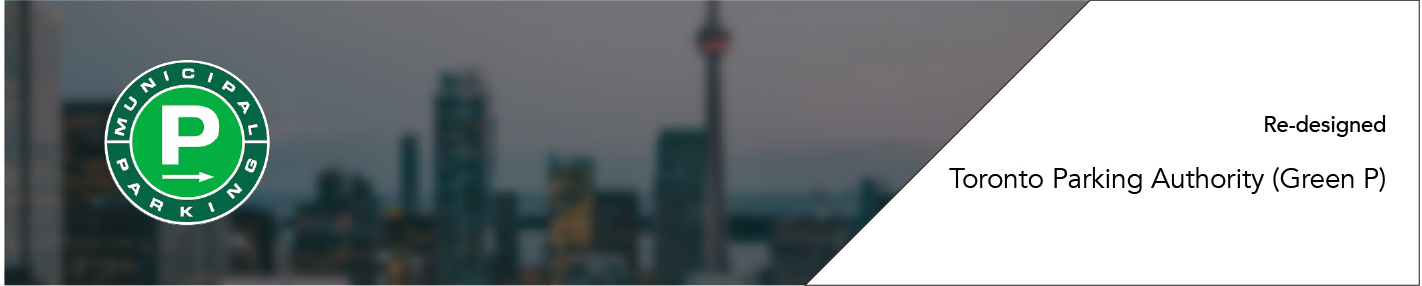
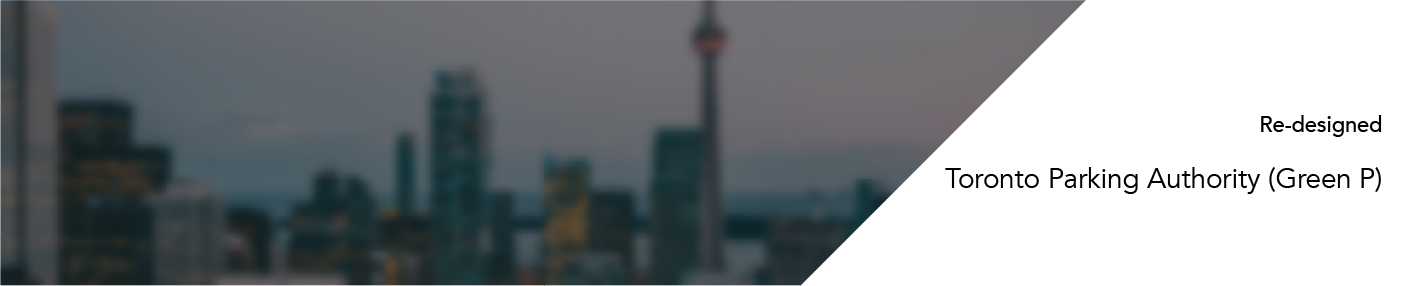
0926

Changed region(s): [[0.5593, 0.0, 1.0, 1.0], [0.0621, 0.1958, 0.2175, 0.7832], [0.0, 0.0, 0.0311, 1.0]]

diff --git a/css/index.css b/css/index.css
@@ -2,7 +2,7 @@
 
 /* header{height:90vh; position: relative; display: flex; overflow: hidden;} */
 header{height:60vh; position: relative; display: flex; overflow: hidden;}
-header nav{background-color: #474849; z-index: 2; width: 40%; height: 15%; overflow: hidden;}/*height: 15% */
+header nav{background-color: #474849; z-index: 2; width: 40%; height: 10vh; overflow: hidden;}/*height: 15% */
 /* .nav-close{display: grid; grid-template-columns: 1fr 1.8fr 3fr; justify-content: space-around; align-items: center; height: 15%; width: 100%; position: absolute;} */
 .nav-close{display: grid; grid-template-columns: 1fr 1.8fr 3fr; justify-content: space-around; align-items: center; height: 10vh; width: 100%; position: absolute;}
 

diff --git a/html/index.html b/html/index.html
@@ -27,7 +27,7 @@
           <span>stella.ch90@gmail.com</span>
         </div></section>
     </nav>
-    <img class="cover" src="../img/mainpage_cover4.png" alt="">
+    <img class="cover" src="../img/mainpage_cover5.png" alt="">
   
   </header>
   <main>
